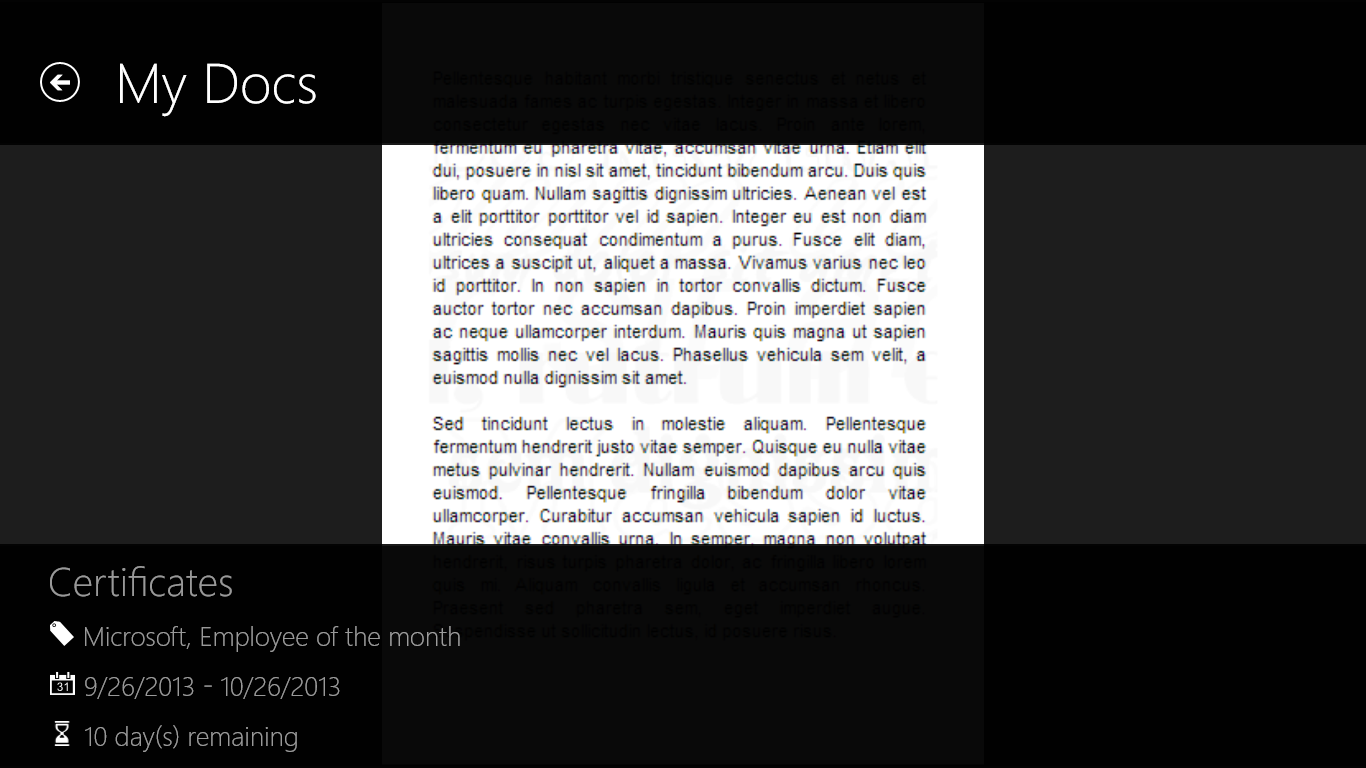
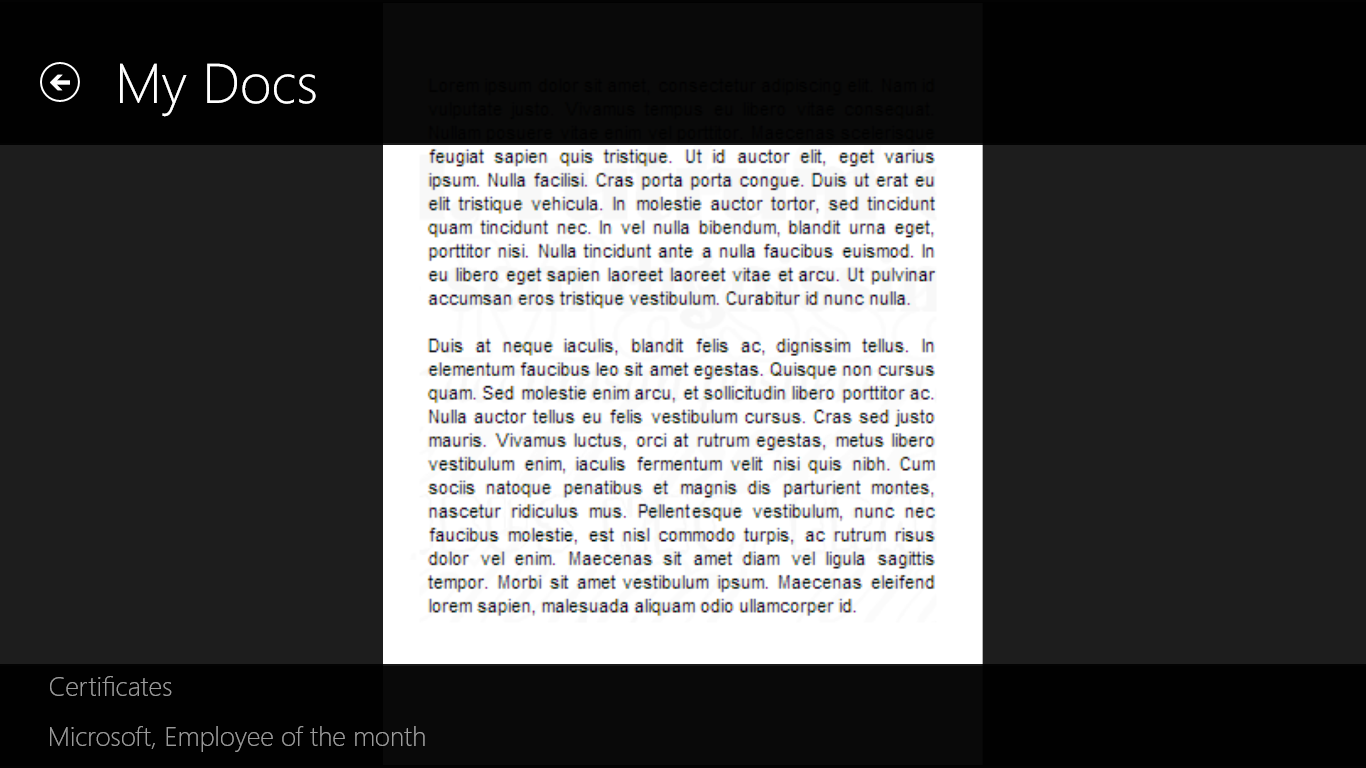
Revert "Bug fixes; Updated screenshots"
This reverts commit 5a9ed4bffeb2038e4ce618f0e4bd64a3033f2522.

Changed region(s): [[0.0, 0.1875, 1.0, 0.9062], [0.0307, 0.9375, 0.3075, 0.9688]]

diff --git a/WindowsStore/Pages/MainPage.xaml b/WindowsStore/Pages/MainPage.xaml
@@ -32,7 +32,7 @@
                             <ColumnDefinition Width="Auto" />
                             <ColumnDefinition Width="*" />
                         </Grid.ColumnDefinitions>
-
+                        
                         <Button Style="{StaticResource TagButtonStyle}" Width="15" Margin="0 5 5 0" />
                         <TextBlock Grid.Column="1"
                                    Text="{Binding TagsString}"
@@ -45,7 +45,7 @@
                             <ColumnDefinition Width="Auto" />
                             <ColumnDefinition Width="*" />
                         </Grid.ColumnDefinitions>
-
+                        
                         <Button Style="{StaticResource CalendarButtonStyle}" Width="15" Margin="0 5 5 0" />
                         <TextBlock Grid.Column="1"
                                    Visibility="{Binding HasLimitedLifespan, Converter={StaticResource BooleanToVisibilityConverter}}"
@@ -69,7 +69,7 @@
                             <ColumnDefinition Width="Auto" />
                             <ColumnDefinition Width="*" />
                         </Grid.ColumnDefinitions>
-
+                        
                         <Button Style="{StaticResource HourGlassButtonStyle}" Width="15" Margin="0 5 5 0" />
                         <TextBlock Grid.Column="1"
                                    Text="{Binding DaysToRemoval, Converter={StaticResource TranslationConverter}, ConverterParameter='countDaysFormat'}"
@@ -337,44 +337,44 @@
                            IsHitTestVisible="false" TextWrapping="NoWrap" VerticalAlignment="Bottom" Margin="0,0,30,40"/>
             </Grid>
 
-        </Grid>
-        <VisualStateManager.VisualStateGroups>
-            <VisualStateGroup x:Name="ApplicationViewStates">
-                <VisualState x:Name="DefaultLayout"/>
+            <VisualStateManager.VisualStateGroups>
+                <VisualStateGroup x:Name="ApplicationViewStates">
+                    <VisualState x:Name="DefaultLayout"/>
 
-                <VisualState x:Name="TightLayout">
+                    <VisualState x:Name="TightLayout">
+                        <Storyboard>
+                            <ObjectAnimationUsingKeyFrames Storyboard.TargetName="pageTitle" Storyboard.TargetProperty="Style">
+                                <DiscreteObjectKeyFrame KeyTime="0" Value="{StaticResource TightHeaderTextBlockStyle}"/>
+                            </ObjectAnimationUsingKeyFrames>
+                            <ObjectAnimationUsingKeyFrames Storyboard.TargetName="noDocumentsText" Storyboard.TargetProperty="Style">
+                                <DiscreteObjectKeyFrame KeyTime="0" Value="{StaticResource TightSubheaderTextBlockStyle}"/>
+                            </ObjectAnimationUsingKeyFrames>
+
+                            <ObjectAnimationUsingKeyFrames Storyboard.TargetName="semanticZoomTight" Storyboard.TargetProperty="Visibility">
+                                <DiscreteObjectKeyFrame KeyTime="0" Value="Visible"/>
+                            </ObjectAnimationUsingKeyFrames>
+                            <ObjectAnimationUsingKeyFrames Storyboard.TargetName="semanticZoom" Storyboard.TargetProperty="Visibility">
+                                <DiscreteObjectKeyFrame KeyTime="0" Value="Collapsed"/>
+                            </ObjectAnimationUsingKeyFrames>
+                        </Storyboard>
+                    </VisualState>
+                </VisualStateGroup>
+
+                <!--<VisualStateGroup x:Name="SemanticZoomStates">
+                <VisualState x:Name="ZoomInView" />
+
+                <VisualState x:Name="ZoomOutView">
                     <Storyboard>
-                        <ObjectAnimationUsingKeyFrames Storyboard.TargetName="pageTitle" Storyboard.TargetProperty="Style">
-                            <DiscreteObjectKeyFrame KeyTime="0" Value="{StaticResource TightHeaderTextBlockStyle}"/>
+                        <ObjectAnimationUsingKeyFrames Storyboard.TargetName="editDocButton" Storyboard.TargetProperty="(UIElement.IsEnabled)">
+                            <DiscreteObjectKeyFrame KeyTime="0" Value="False"/>
                         </ObjectAnimationUsingKeyFrames>
-                        <ObjectAnimationUsingKeyFrames Storyboard.TargetName="noDocumentsText" Storyboard.TargetProperty="Style">
-                            <DiscreteObjectKeyFrame KeyTime="0" Value="{StaticResource TightSubheaderTextBlockStyle}"/>
-                        </ObjectAnimationUsingKeyFrames>
-
-                        <ObjectAnimationUsingKeyFrames Storyboard.TargetName="semanticZoomTight" Storyboard.TargetProperty="Visibility">
-                            <DiscreteObjectKeyFrame KeyTime="0" Value="Visible"/>
-                        </ObjectAnimationUsingKeyFrames>
-                        <ObjectAnimationUsingKeyFrames Storyboard.TargetName="semanticZoom" Storyboard.TargetProperty="Visibility">
-                            <DiscreteObjectKeyFrame KeyTime="0" Value="Collapsed"/>
+                        <ObjectAnimationUsingKeyFrames Storyboard.TargetName="deleteDocButton" Storyboard.TargetProperty="(UIElement.IsEnabled)">
+                            <DiscreteObjectKeyFrame KeyTime="0" Value="False"/>
                         </ObjectAnimationUsingKeyFrames>
                     </Storyboard>
                 </VisualState>
-            </VisualStateGroup>
-
-        <!--<VisualStateGroup x:Name="SemanticZoomStates">
-            <VisualState x:Name="ZoomInView" />
-
-            <VisualState x:Name="ZoomOutView">
-                <Storyboard>
-                    <ObjectAnimationUsingKeyFrames Storyboard.TargetName="editDocButton" Storyboard.TargetProperty="(UIElement.IsEnabled)">
-                        <DiscreteObjectKeyFrame KeyTime="0" Value="False"/>
-                    </ObjectAnimationUsingKeyFrames>
-                    <ObjectAnimationUsingKeyFrames Storyboard.TargetName="deleteDocButton" Storyboard.TargetProperty="(UIElement.IsEnabled)">
-                        <DiscreteObjectKeyFrame KeyTime="0" Value="False"/>
-                    </ObjectAnimationUsingKeyFrames>
-                </Storyboard>
-            </VisualState>
-        </VisualStateGroup>-->
-        </VisualStateManager.VisualStateGroups>
+            </VisualStateGroup>-->
+            </VisualStateManager.VisualStateGroups>
+        </Grid>
     </Grid>
 </common:LayoutAwarePage>

diff --git a/WindowsStore/Pages/ShowDocumentPage.xaml b/WindowsStore/Pages/ShowDocumentPage.xaml
@@ -56,25 +56,14 @@
 
                 <TextBlock Name="category" Text="{Binding SelectedDocument.Category}" TextWrapping="NoWrap" FontSize="40" Margin="50 20 50 20" />
 
-                <Grid Margin="50 0 50 20">
-                    <Grid.ColumnDefinitions>
-                        <ColumnDefinition Width="Auto" />
-                        <ColumnDefinition Width="*" />
-                    </Grid.ColumnDefinitions>
-                    
+                <StackPanel Orientation="Horizontal" Margin="50 0 50 20">
                     <Button Style="{StaticResource TagButtonStyle}" Width="25" Margin="0 5 10 0" />
-                    <TextBlock Grid.Column="1" Name="tags" Text="{Binding SelectedDocument.TagsString}" TextWrapping="NoWrap" />
-                </Grid>
+                    <TextBlock Name="tags" Text="{Binding SelectedDocument.TagsString}" TextWrapping="Wrap" />
+                </StackPanel>
 
-                <Grid Margin="50 0 50 20">
-                    <Grid.ColumnDefinitions>
-                        <ColumnDefinition Width="Auto" />
-                        <ColumnDefinition Width="*" />
-                    </Grid.ColumnDefinitions>
-                    
+                <StackPanel Orientation="Horizontal" Margin="50 0 50 20">
                     <Button Style="{StaticResource CalendarButtonStyle}" Width="25" Margin="0 5 10 0" />
-                    <TextBlock Grid.Column="1"
-                               Name="lifespan"
+                    <TextBlock Name="lifespan"
                                TextWrapping="NoWrap"
                                Visibility="{Binding SelectedDocument.HasLimitedLifespan, Converter={StaticResource BooleanToVisibilityConverter}}">
                         <Run Text="{Binding SelectedDocument.DateAdded, Converter={StaticResource DateToStringConverter}}" />
@@ -82,24 +71,18 @@
                         <Run Text="{Binding SelectedDocument.DateRemoved, Converter={StaticResource DateToStringConverter}}" />
                     </TextBlock>
 
-                    <TextBlock Grid.Column="1"
-                               Name="dateAdded"
+                    <TextBlock Name="dateAdded"
                                Text="{Binding SelectedDocument.DateAdded, Converter={StaticResource DateToStringConverter}}"
                                TextWrapping="NoWrap"
                                Visibility="{Binding SelectedDocument.HasLimitedLifespan, Converter={StaticResource BooleanToNegatedVisibilityConverter}}" />
-                </Grid>
+                </StackPanel>
 
-                <Grid Margin="50 0 50 20" Visibility="{Binding SelectedDocument.HasLimitedLifespan, Converter={StaticResource BooleanToVisibilityConverter}}">
-                    <Grid.ColumnDefinitions>
-                        <ColumnDefinition Width="Auto" />
-                        <ColumnDefinition Width="*" />
-                    </Grid.ColumnDefinitions>
+                <StackPanel Orientation="Horizontal" Margin="50 0 50 20" Visibility="{Binding SelectedDocument.HasLimitedLifespan, Converter={StaticResource BooleanToVisibilityConverter}}">
                     <Button Style="{StaticResource HourGlassButtonStyle}" Width="25" Margin="0 5 10 0" />
-                    <TextBlock Grid.Column="1"
-                               Name="timeToRemoval"
+                    <TextBlock Name="timeToRemoval"
                                Text="{Binding SelectedDocument.DaysToRemoval, Converter={StaticResource TranslationConverter}, ConverterParameter='countDaysFormat'}"
                                TextWrapping="NoWrap" />
-                </Grid>
+                </StackPanel>
             </StackPanel>
         </AppBar>
     </Page.BottomAppBar>
